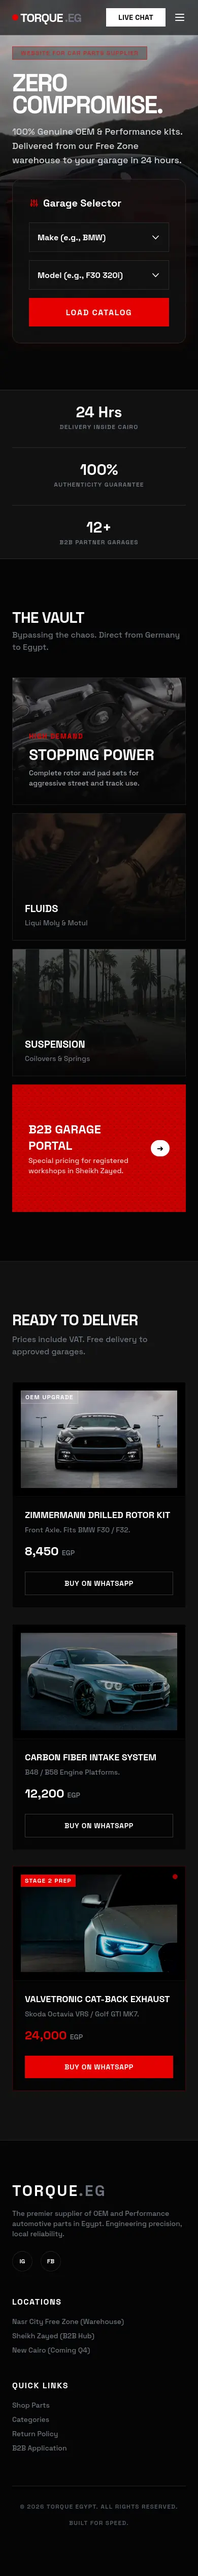
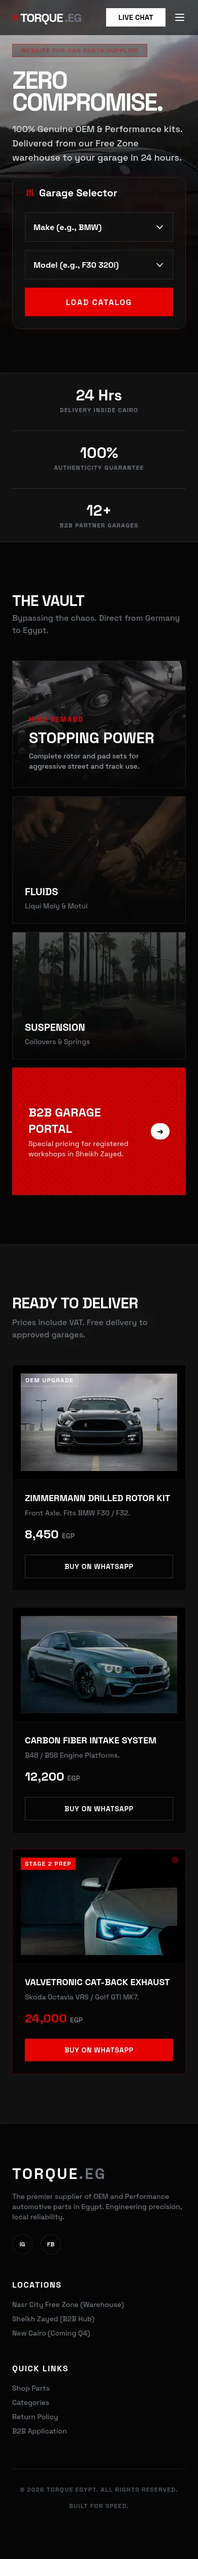
price and scrnshot

diff --git a/app/components/ui/PricingEstimator.jsx b/app/components/ui/PricingEstimator.jsx
@@ -39,7 +39,7 @@ const t = {
   scopes: [
     { value: 0, price: 0, name: { en: "Minimal", ar: "قليل" } },
     { value: 1, price: 2999, name: { en: "Medium", ar: "متوسط" } },
-    { value: 2, price: 5999, name: { en: "A Lot", ar: "كثير" } },
+    { value: 2, price: 4999, name: { en: "A Lot", ar: "كثير" } },
   ],
   addons: [
     {
@@ -162,7 +162,7 @@ Can we talk?`;
 
   return (
     <>
-      <div className="relative w-full max-w-7xl mx-auto px-4 py-5 pt-3 sm:px-4.5 rounded-3xl bg-surface-card/50 shadow-xl shadow-black/30 border-2 border-border-subtle flex flex-col gap-4.5 sm:gap-8 md:block md:bg-transparent md:shadow-none md:border-0 md:p-0">
+      <div className="relative w-full max-w-7xl mx-auto px-4 py-3 sm:px-4.5 rounded-3xl bg-surface-card/50 shadow-xl shadow-black/30 border-2 border-border-subtle flex flex-col gap-4.5 sm:gap-8 md:block md:bg-transparent md:shadow-none md:border-0 md:p-0">
         {/* ========================================= */}
         {/* MOBILE ONLY: Original Header & Price      */}
         {/* ========================================= */}
